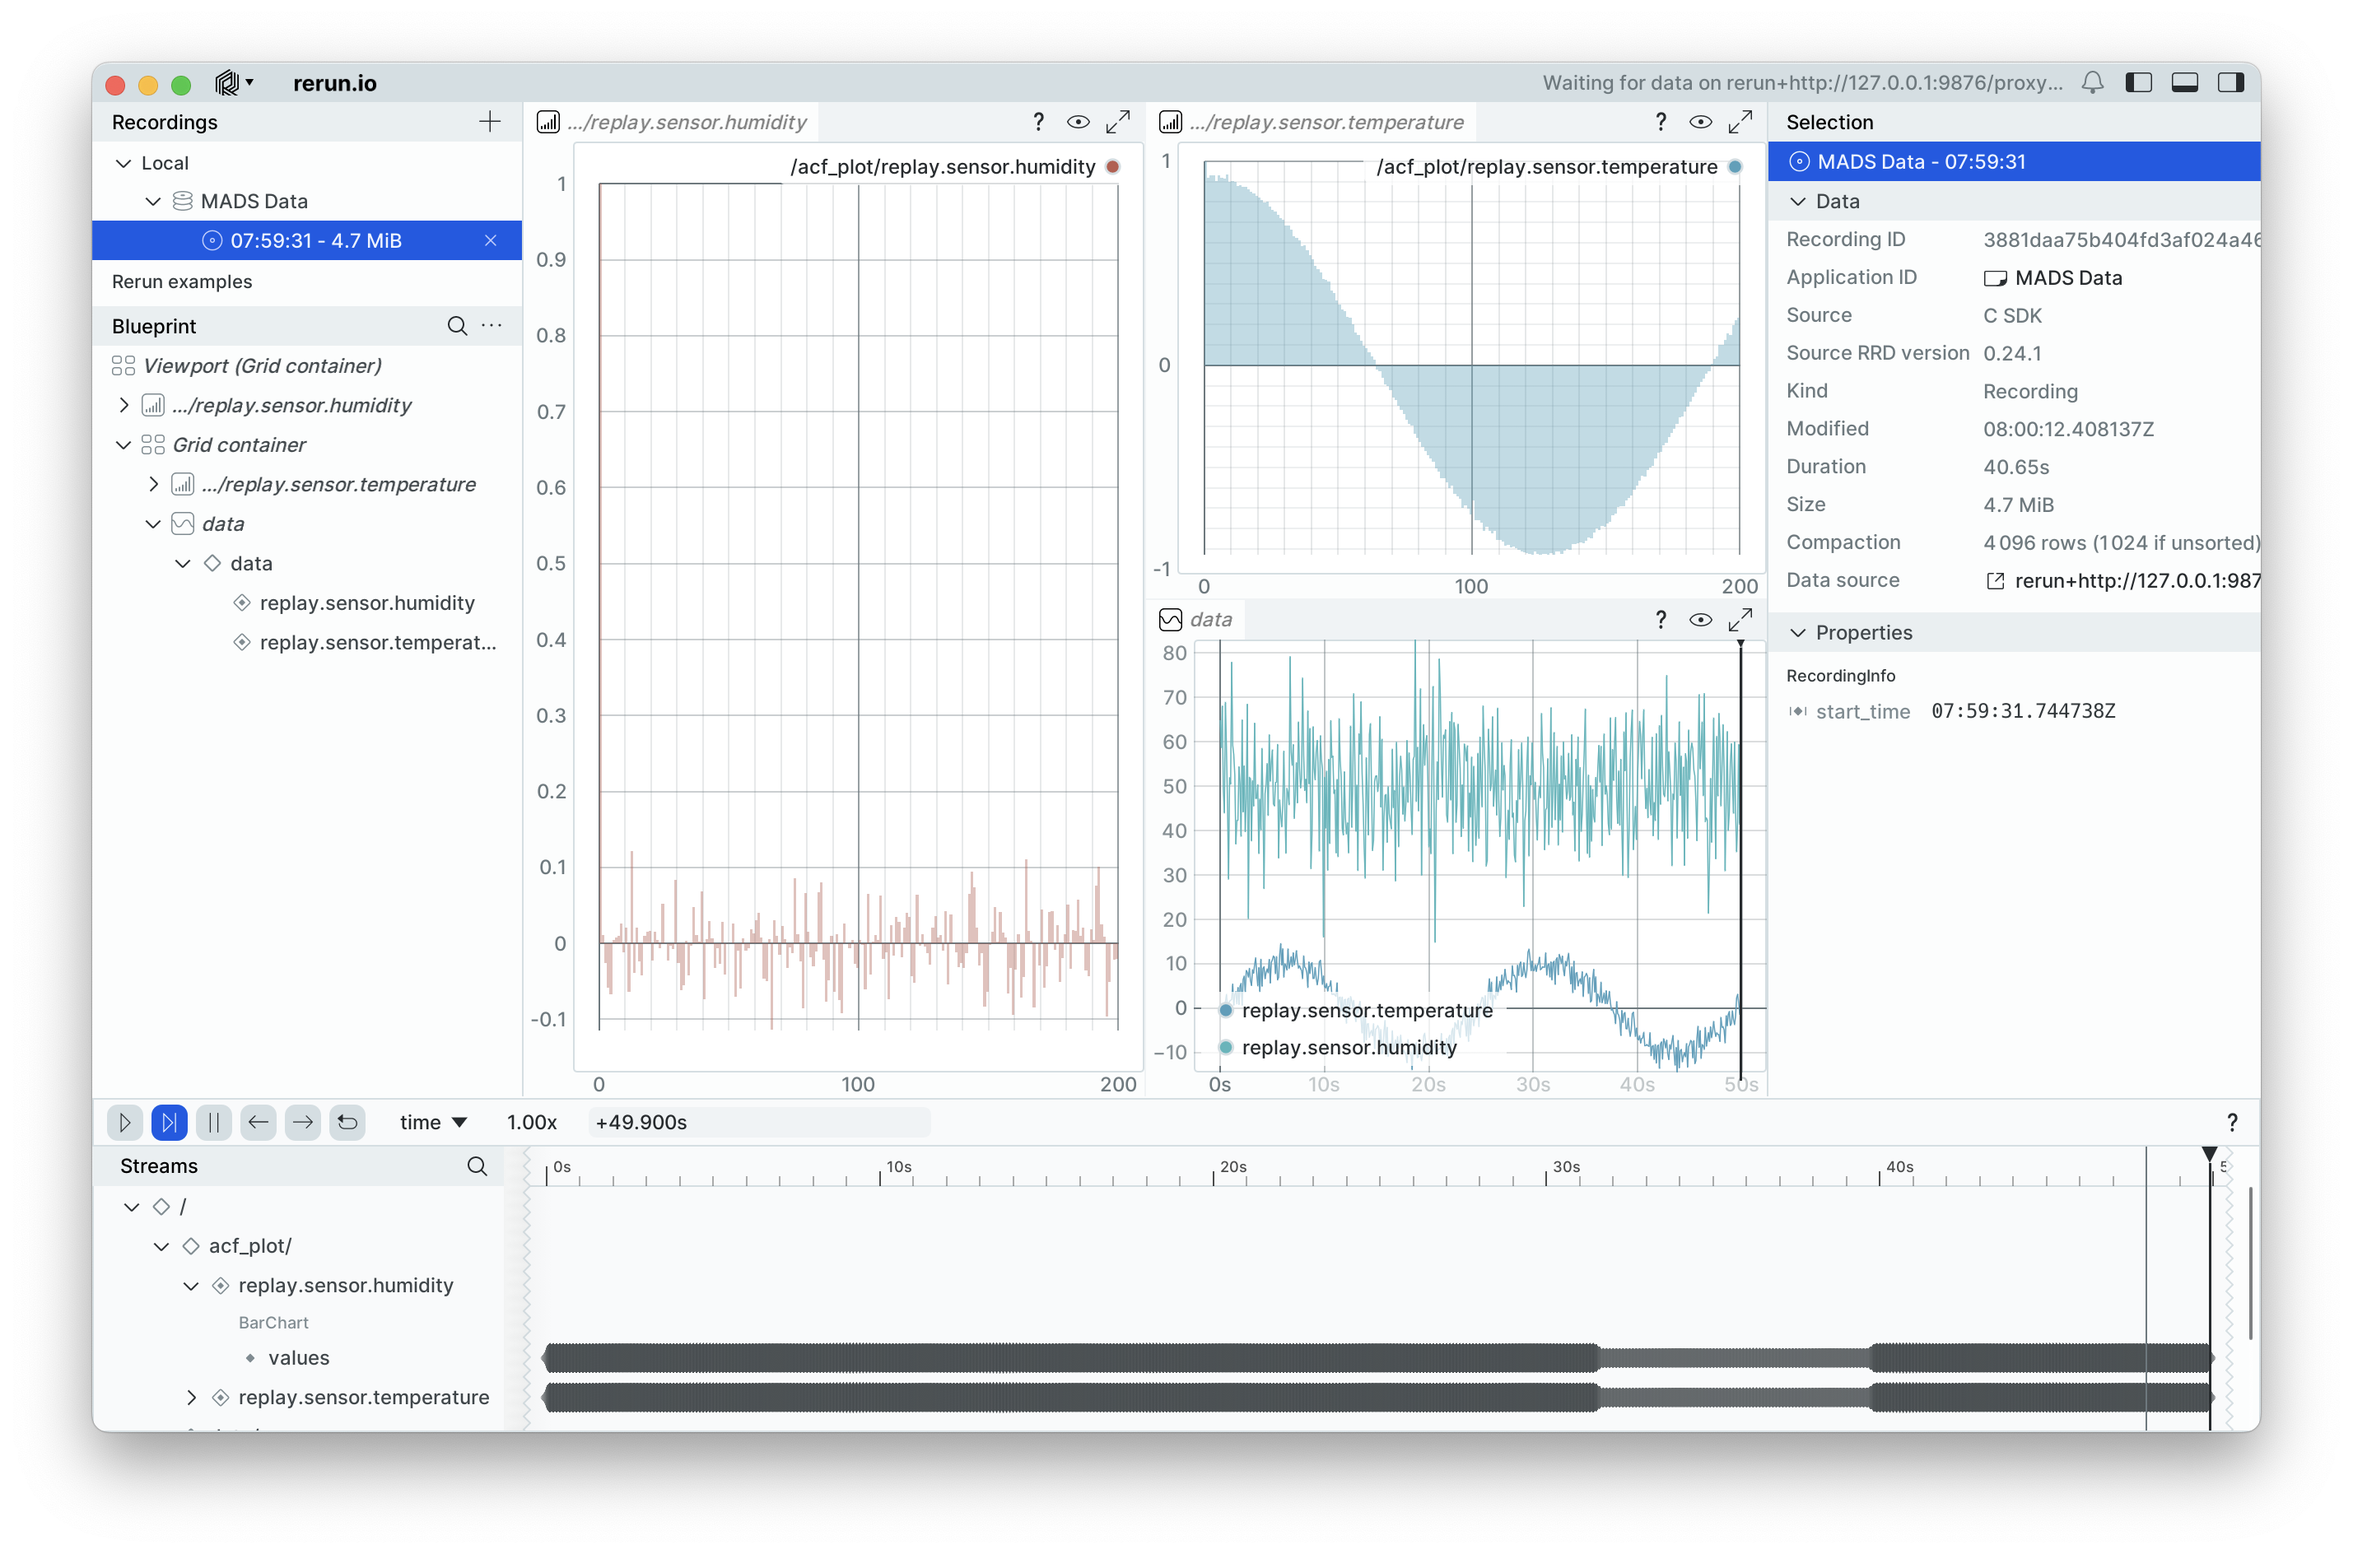
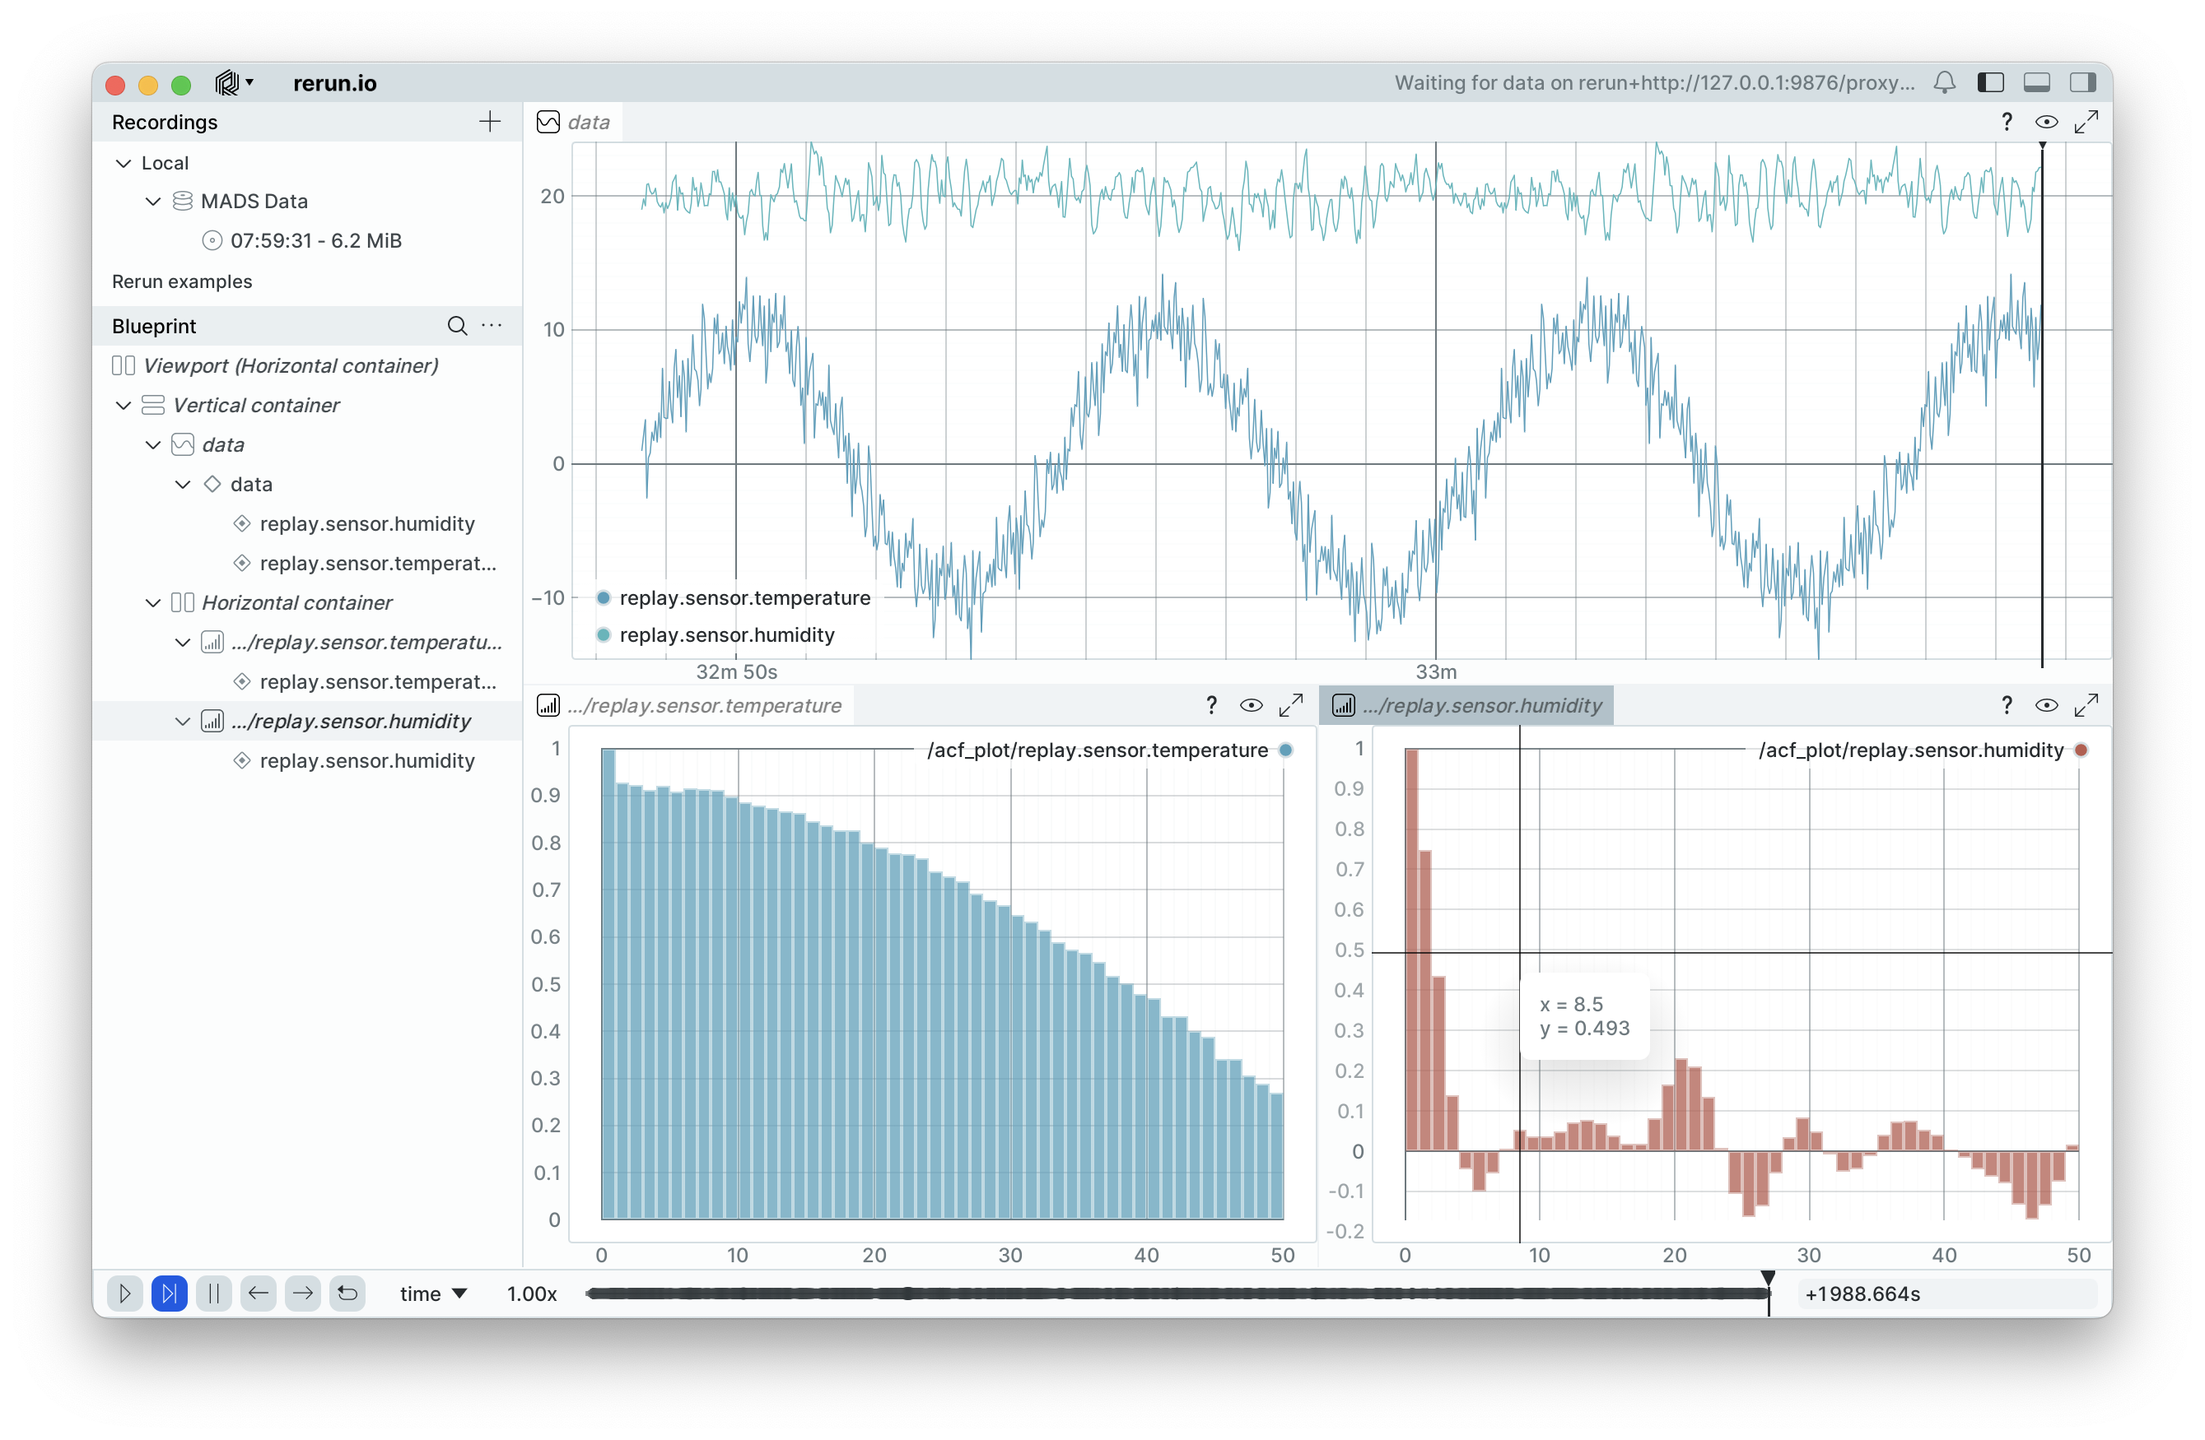
Built site for gh-pages

Changed region(s): [[0.031, 0.0309, 0.9608, 0.9257], [0.031, 0.6789, 0.186, 0.7714], [0.093, 0.8023, 0.186, 0.8331]]

diff --git a/guides/rerun.html b/guides/rerun.html
@@ -368,7 +368,29 @@ More complex viewers
 </section>
 <section id="example-usage" class="level2">
 <h2 class="anchored" data-anchor-id="example-usage">Example usage</h2>
-<p>To quickly test the plugin, follow the next steps:</p>
+<p>We are using the <code>replay</code> plugin to reproduce in loop a CSV file generated with synthetic data. The datafile contains two signals, <code>sensor.temperature</code> and <code>sensor.humidity</code>, published on the topic <code>replay</code>. The temperature signal is generated with a sinusoidal plus some Gaussian noise. the humidity signal is generated with as an ARIMA(2,0,4) process, so that we expect to have 3-4 lags of autocorrelation.</p>
+<div class="cell">
+<div class="cell-output-display">
+<div>
+<figure class="figure">
+<p><img src="rerun_files/figure-html/unnamed-chunk-2-1.png" class="img-fluid figure-img" width="768"></p>
+</figure>
+</div>
+</div>
+</div>
+<p>The ACF and PACF charts of the humidity signal are:</p>
+<div class="cell">
+<div class="cell-output-display">
+<div>
+<figure class="figure">
+<p><img src="rerun_files/figure-html/unnamed-chunk-3-1.png" class="img-fluid figure-img" width="768"></p>
+</figure>
+</div>
+</div>
+</div>
+<p>We observe that in the ACF chart the lags 1–3 are significant.</p>
+<p>These data are available in the <code>example.csv</code> file in the <code>rerunner_plugin</code> repository.</p>
+<p>To quickly test the <code>rerunner</code> plugin, we follow the next steps:</p>
 <ol type="1">
 <li>Install the <a href="https://github.com/MADS-NET/replay_plugin"><code>replay</code></a> source plugin</li>
 <li>Start the MADS broker</li>
@@ -381,7 +403,7 @@ More complex viewers
 <span id="cb5-5"><a href="#cb5-5" aria-hidden="true" tabindex="-1"></a><span class="dt">loop</span> <span class="op">=</span> <span class="cn">true</span></span></code><button title="Copy to Clipboard" class="code-copy-button"><i class="bi"></i></button></pre></div>
 <ol start="4" type="1">
 <li>Clone the <code>rerunner</code> plugin: <code>git clone https://github.com/MADS-NET/rerunner_plugin.git</code></li>
-<li>From the <code>rerunner_plugin</code> folder, run the <code>replay</code> plugin, so that it uses the <code>example.cvs</code> file <em>from the current folder</em>:</li>
+<li>From the <code>rerunner_plugin</code> folder, run the <code>replay</code> plugin, so that it uses the <code>example.csv</code> file <em>from the current folder</em>:</li>
 </ol>
 <div class="sourceCode" id="cb6"><pre class="sourceCode sh code-with-copy"><code class="sourceCode bash"><span id="cb6-1"><a href="#cb6-1" aria-hidden="true" tabindex="-1"></a><span class="ex">mads</span> source replay.plugin</span></code><button title="Copy to Clipboard" class="code-copy-button"><i class="bi"></i></button></pre></div>
 <ol start="6" type="1">
@@ -409,6 +431,7 @@ More complex viewers
 <figcaption>Rerun viewer output</figcaption>
 </figure>
 </div>
+<p>In particular, note that the ACF file for the humidity signal shows significant lags at 1, 2 and 3, as expected, while the temperature signal a long ACF as expected by such a periodic signal.</p>
 
 
 </section>

diff --git a/guides.html b/guides.html
@@ -363,7 +363,7 @@ Reading Time
 </thead>
 <tbody class="list">
 
-<tr data-index="0" data-categories="ZWFzeSUyQ3Zpc3VhbGl6YXp0aW9uJTJDb3BlcmF0aW9ucyUyQ3BsdWdpbg==" data-listing-date-sort="1757455200000" data-listing-file-modified-sort="1757491588469" data-listing-date-modified-sort="1757455200000" data-listing-reading-time-sort="4" data-listing-word-count-sort="788" data-listing-title-sort="Real-time visualization with Rerun" data-listing-filename-sort="rerun.qmd" onclick="href = this.querySelector('a').getAttribute('href');
+<tr data-index="0" data-categories="ZWFzeSUyQ3Zpc3VhbGl6YXp0aW9uJTJDb3BlcmF0aW9ucyUyQ3BsdWdpbg==" data-listing-date-sort="1757455200000" data-listing-file-modified-sort="1757515160253" data-listing-date-modified-sort="1757455200000" data-listing-reading-time-sort="6" data-listing-word-count-sort="1039" data-listing-title-sort="Real-time visualization with Rerun" data-listing-filename-sort="rerun.qmd" onclick="href = this.querySelector('a').getAttribute('href');
  if (href) { window.location=href ; return false; }">
 <td>
 <span class="listing-date">Sep 10, 2025</span>
@@ -381,7 +381,7 @@ Reading Time
 <span class="listing-categories">easy, visualizaztion, operations, plugin</span>
 </td>
 <td>
-<span class="listing-reading-time">4 min</span>
+<span class="listing-reading-time">6 min</span>
 </td>
 
 </tr>
